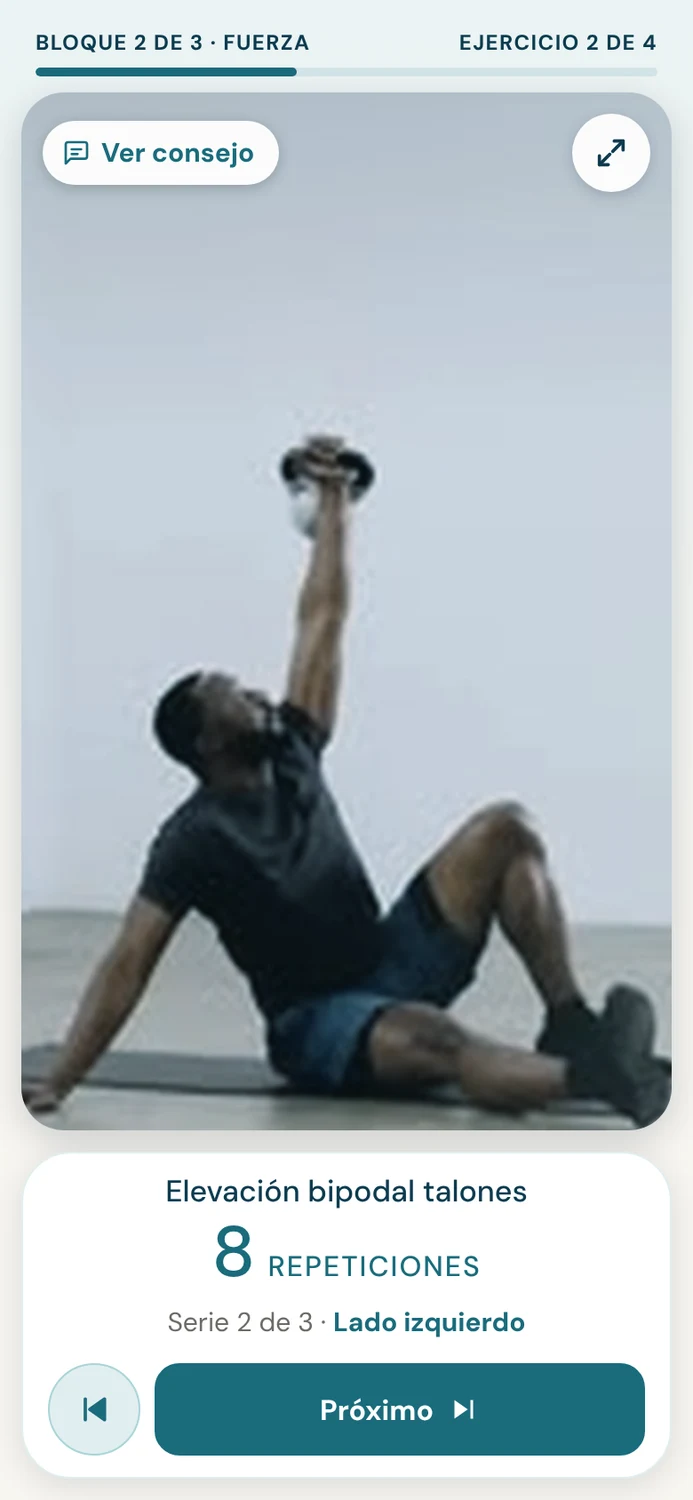
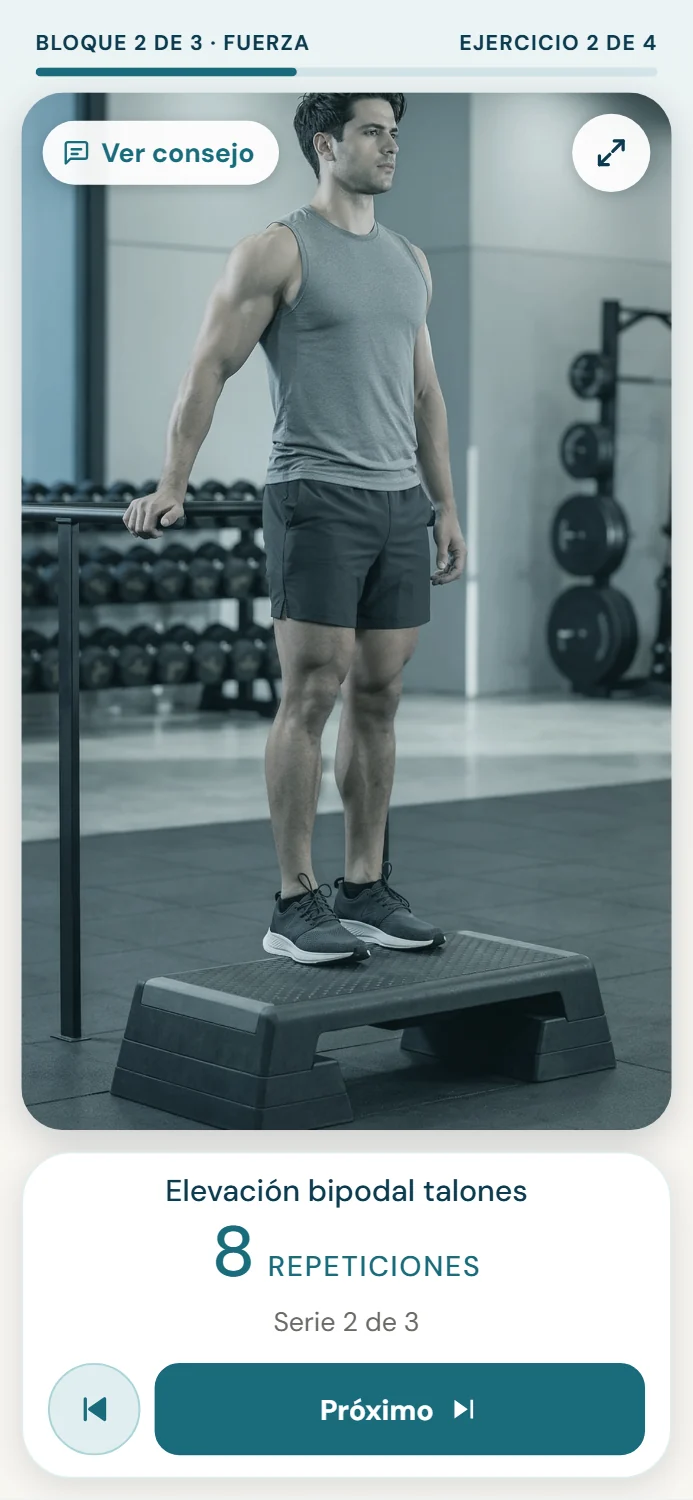
Maketa app: add cardio screen, fix heel raise screen; website case shows desktop first

diff --git a/index.html b/index.html
@@ -404,19 +404,20 @@ const GAL = {
     ["img/mk-p2.webp", "Summary of the routine: goal, materials and blocks.", "p"],
     ["img/mk-p3.webp", "One exercise at a time, with video and a tip from the physio.", "p"],
     ["img/mk-p4.webp", "Rest timer between sets, with what comes next.", "p"],
+    ["img/mk-p6.webp", "Cardio: a big timer you can follow from the treadmill.", "p"],
     ["img/mk-p5.webp", "It ends with a person: one tap to message the physio.", "p"],
     ["img/mk-a1.webp", "Her list of routines, filtered by body region: copy the link or edit.", "l"],
     ["img/mk-a2.webp", "Building a routine: blocks, exercises, reps and notes.", "l"],
     ["img/mk-a3.webp", "Adding an exercise from the video library.", "l"]],
   web: [
-    ["img/mk-w5.webp", "The first screen: what Maketa does, and one button to book.", "p"],
-    ["img/mk-w6.webp", "Who the physio is, in her own words.", "p"],
-    ["img/mk-w7.webp", "How a consultation works, step by step.", "p"],
-    ["img/mk-w8.webp", "Booking opens WhatsApp. No forms.", "p"],
     ["img/mk-w1.webp", "Home: a clear promise and one button to book.", "l"],
     ["img/mk-w2.webp", "About the physio: her studies and her work with Olympic athletes.", "l"],
     ["img/mk-w3.webp", "The four steps of a consultation.", "l"],
-    ["img/mk-w4.webp", "Where she works, and a WhatsApp button to book.", "l"]],
+    ["img/mk-w4.webp", "Where she works, and a WhatsApp button to book.", "l"],
+    ["img/mk-w5.webp", "The first screen: what Maketa does, and one button to book.", "p"],
+    ["img/mk-w6.webp", "Who the physio is, in her own words.", "p"],
+    ["img/mk-w7.webp", "How a consultation works, step by step.", "p"],
+    ["img/mk-w8.webp", "Booking opens WhatsApp. No forms.", "p"]],
 
   olas: [
     ["img/ola-1.webp", "Pick the kind of wave you love.", "p"],
@@ -479,7 +480,7 @@ const CASES = [
     result: ["10 surfers are testing it, and we are checking the forecast against the water."] }
 ];
 
-const BAR = {"img/card-rehab.webp": ["#152e39", "#ffffff"], "img/card-olas.webp": ["#65abc9", "#111111"], "img/ola-1.webp": ["#64aac9", "#111111"], "img/ola-2.webp": ["#65abc9", "#111111"], "img/ola-3.webp": ["#67acc9", "#111111"], "img/ola-4.webp": ["#67acc9", "#111111"], "img/card-acapedia.webp": ["#f1f1f3", "#111111"], "img/mk-p1.webp": ["#203944", "#ffffff"], "img/mk-p2.webp": ["#ebf3f4", "#111111"], "img/mk-p3.webp": ["#ebf3f4", "#111111"], "img/mk-p4.webp": ["#ebf3f4", "#111111"], "img/mk-p5.webp": ["#203944", "#ffffff"], "img/acapedia-m1.webp": ["#f1f1f3", "#111111"], "img/acapedia-m2.webp": ["#f1f1f3", "#111111"], "img/card-maketa-web.webp": ["#eff0ec", "#111111"], "img/mk-w5.webp": ["#eff0ec", "#111111"], "img/mk-w6.webp": ["#fbf9f5", "#111111"], "img/mk-w7.webp": ["#eceeec", "#111111"], "img/mk-w8.webp": ["#fbf9f4", "#111111"]};
+const BAR = {"img/card-rehab.webp": ["#152e39", "#ffffff"], "img/card-olas.webp": ["#65abc9", "#111111"], "img/ola-1.webp": ["#64aac9", "#111111"], "img/ola-2.webp": ["#65abc9", "#111111"], "img/ola-3.webp": ["#67acc9", "#111111"], "img/ola-4.webp": ["#67acc9", "#111111"], "img/card-acapedia.webp": ["#f1f1f3", "#111111"], "img/mk-p1.webp": ["#203944", "#ffffff"], "img/mk-p2.webp": ["#ebf3f4", "#111111"], "img/mk-p3.webp": ["#ebf3f4", "#111111"], "img/mk-p4.webp": ["#ebf3f4", "#111111"], "img/mk-p5.webp": ["#203944", "#ffffff"], "img/mk-p6.webp": ["#eaf3f4", "#111111"], "img/acapedia-m1.webp": ["#f1f1f3", "#111111"], "img/acapedia-m2.webp": ["#f1f1f3", "#111111"], "img/card-maketa-web.webp": ["#eff0ec", "#111111"], "img/mk-w5.webp": ["#eff0ec", "#111111"], "img/mk-w6.webp": ["#fbf9f5", "#111111"], "img/mk-w7.webp": ["#eceeec", "#111111"], "img/mk-w8.webp": ["#fbf9f4", "#111111"]};
 const SB_L = '<svg viewBox="0 0 32 12" aria-hidden="true" fill="currentColor"><rect x="0" y="8" width="3" height="4" rx=".8"/><rect x="5" y="5.5" width="3" height="6.5" rx=".8"/><rect x="10" y="3" width="3" height="9" rx=".8"/><rect x="15" y="0" width="3" height="12" rx=".8"/><path d="M22 4.2a8 8 0 0 1 11 0M24.4 7a4.6 4.6 0 0 1 6.2 0" fill="none" stroke="currentColor" stroke-width="1.7" stroke-linecap="round" transform="translate(-1 0)"/><circle cx="27.5" cy="10" r="1.3"/></svg>';
 const SB_R = '<svg viewBox="0 0 26 12" aria-hidden="true" fill="currentColor"><rect x=".5" y="1" width="20" height="10" rx="3" fill="none" stroke="currentColor" stroke-opacity=".5" stroke-width="1"/><rect x="2" y="2.5" width="15" height="7" rx="1.8"/><rect x="22" y="4" width="1.8" height="4" rx=".9" fill-opacity=".5"/></svg>';
 const SB_W = SB_L.replace('viewBox="0 0 32 12"', 'viewBox="20 0 14 12"');
@@ -537,12 +538,13 @@ function flip(card, opening, done) {
 }
 
 function figHtml(s, k) { const ph = s[2] === "p", sh = s[2] === "s"; return '<figure class="' + s[2] + '"><div class="frame ' + (ph ? "phone" + (BAR[s[0]] ? "" : " nb") : sh ? "shot" : "browser") + '">' + (ph ? statusBar(s[0]) : sh ? "" : '<div class="bar"><i></i><i></i><i></i></div>') + '<img src="' + s[0] + '" alt="' + s[1] + '" data-k="' + k + '" loading="lazy"></div><figcaption>' + s[1] + '</figcaption></figure>'; }
-function rowsHtml(g, labels) {
+function rowsHtml(g, labels, desktopFirst) {
   labels = labels || ["Patient screens", "Physio screens"];
   const row = function (t, fh, label) {
     return '<div class="rail-wrap"><button class="rail-btn prev" type="button" aria-label="Previous screens">←</button><div class="rail" tabindex="0" style="--fh:' + fh + '" aria-label="' + label + '">' + g.map(function (s, k) { return s[2] === t ? figHtml(s, k) : ""; }).join("") + '</div><button class="rail-btn next" type="button" aria-label="Next screens">→</button></div>';
   };
-  return row("p", "min(560px, 64vh)", labels[0]) + row("l", "min(460px, 54vh)", labels[1]);
+  const ph = row("p", "min(560px, 64vh)", labels[0]), pc = row("l", "min(460px, 54vh)", labels[1]);
+  return desktopFirst ? pc + ph : ph + pc;
 }
 function stackHtml(g) {
   const row = function (t, cls) { return '<div class="rail stack ' + cls + '" aria-label="Screenshots">' + g.map(function (s, k) { return s[2] === t ? figHtml(s, k) : ""; }).join("") + '</div>'; };
@@ -552,7 +554,7 @@ function render(c, i) {
   kicker.textContent = "Case " + (i + 1) + " of " + CASES.length;
   const g = GAL[c.id] || [];
   const rail = g.length
-    ? (c.id === "rehab" ? rowsHtml(g) : c.id === "web" ? rowsHtml(g, ["Phone screens", "Computer screens"]) :
+    ? (c.id === "rehab" ? rowsHtml(g) : c.id === "web" ? rowsHtml(g, ["Phone screens", "Computer screens"], true) :
       '<div class="rail-wrap"><button class="rail-btn prev" type="button" aria-label="Previous screens">←</button><div class="rail" tabindex="0" aria-label="Screenshots of ' + c.title + '">' +
         g.map(figHtml).join("") +
       '</div><button class="rail-btn next" type="button" aria-label="Next screens">→</button></div>')
